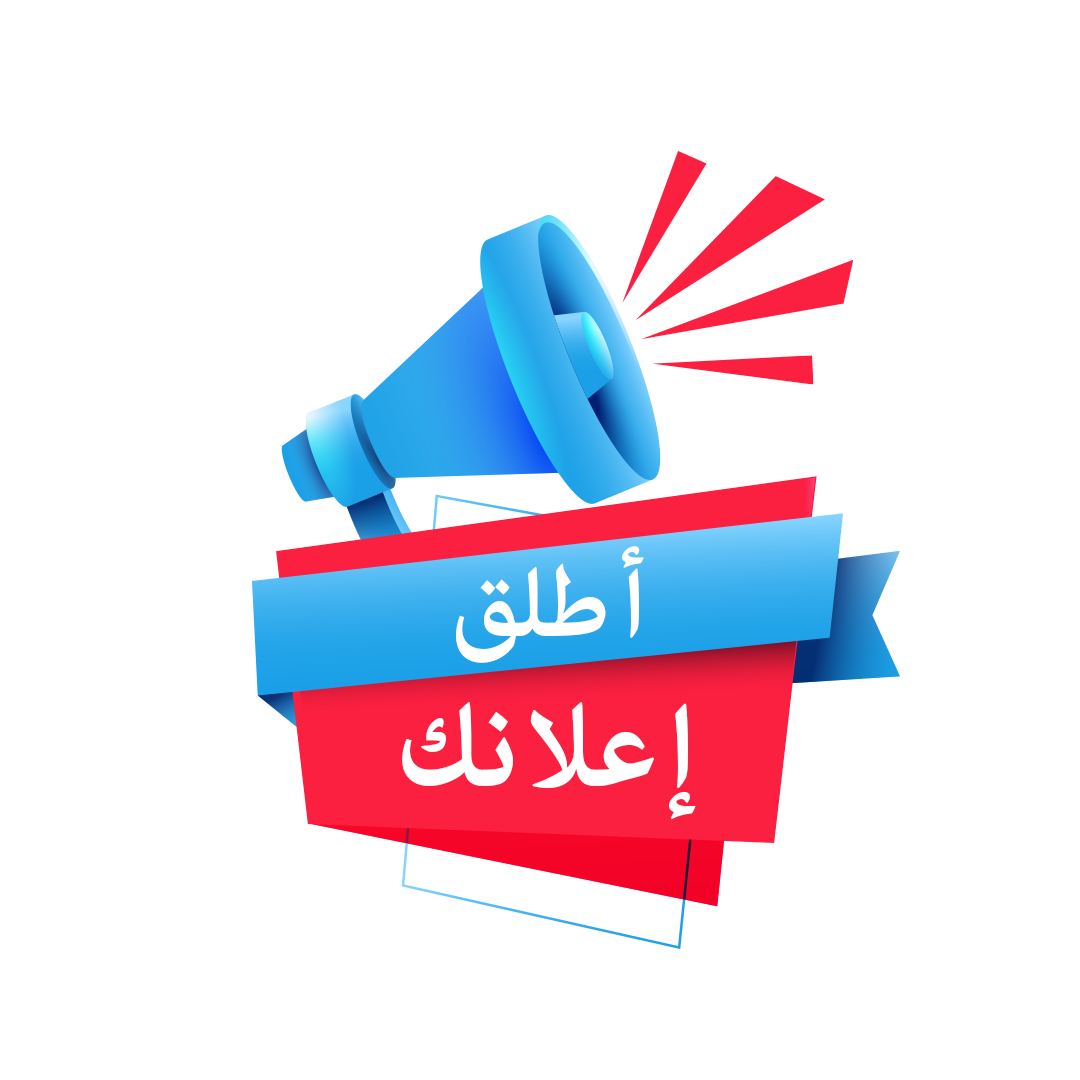
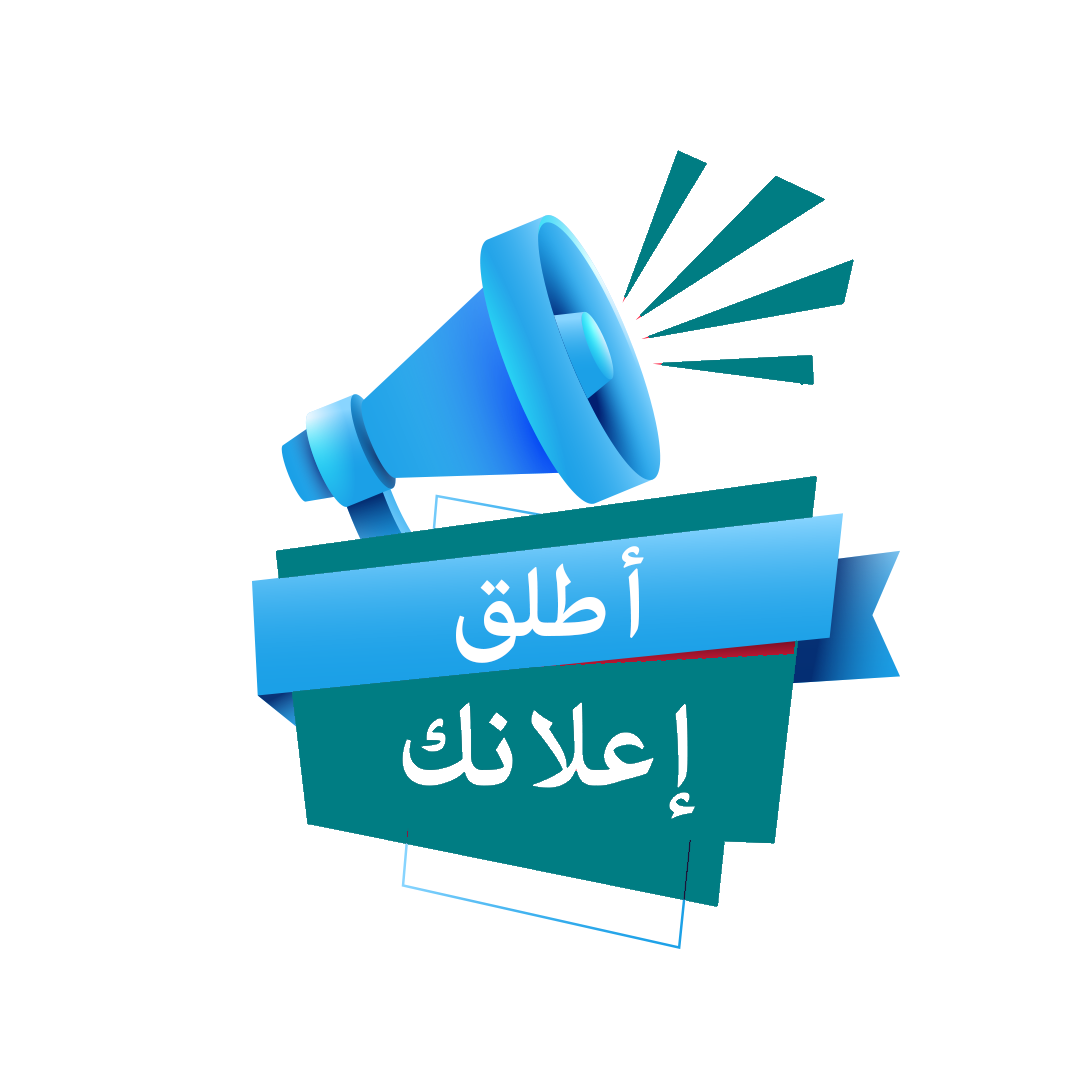
colors

Changed region(s): [[0.275, 0.5806, 0.7333, 0.8556], [0.5806, 0.1222, 0.7944, 0.3667], [0.2444, 0.4278, 0.7639, 0.55]]

diff --git a/css/home.css b/css/home.css
@@ -1,6 +1,11 @@
 .tow {
     height: 100vh;
 }
+:root {
+    --primary: #007D83;
+    --primary-light: #489BA3;
+    --secondary: #D9D9D9;
+}
 section {
     overflow: hidden;
 }
@@ -47,7 +52,7 @@ a {
 
 
 h2 {
-    background: #E9D2FD;
+    color: var(--primary);
     width: fit-content;
     text-align: center;
     margin: auto;
@@ -67,7 +72,7 @@ h2::after {
     left: 0;
     width: 100%;
     height: 2px;
-    background: red;
+    background: var(--primary);
 }
 /* Start Component  */
 .cta {
@@ -75,11 +80,11 @@ h2::after {
     margin: auto;
     padding: 10px 40px;
     border-radius: 25px;
-    background: red;
-    color: white;
-    border: 1.5px solid black;
     display: block;
     text-align: center;
+    background: #F4F4F4;
+    color: black;
+    border: 2px solid var(--primary);
 }
 .cta .cta_icon {
     width: 15px;
@@ -137,6 +142,9 @@ h2::after {
         grid-template-columns: repeat(2, 1fr);
     }
 }
+.section-home h1 {
+    color: var(--primary);
+}
 .section-home__snapchat-icon {
     color: #9b9b75;
     position: absolute;
@@ -175,6 +183,11 @@ h2::after {
 }
 .section-home .cta {
     margin-top: 50px;
+    background: var(--primary);
+    color: white;
+}
+.section-home .cta svg {
+    fill: white;
 }
 /* 
 =========================================================
@@ -229,11 +242,11 @@ h2::after {
     font-size: 18px;
 }
 .benefit-section .text-contianer i {
-    color: rgb(0, 88, 255);
+    color:  var(--primary);
 }
-.benefit-section .text-contianer p {
+.benefit-section .text-contianer .text p {
     line-height: 1.6;
-    
+    color: var(--primary-light);
 }
 /* 
 =========================================================
@@ -244,15 +257,15 @@ h2::after {
 =========================================================
 */
 .client-sections {
-    background: #4a3636;
-    color: white;
+    background: var(--primary);
+    color: var(--secondary);
+    
 }
 .client-sections h2 {
-    background: white;
-    color: black;
+    color: var(--secondary);
 }
 .client-sections p {
-    color: #3bff00;
+    color: var(--secondary);
 }
 .client-sections ul li  {
     line-height: 2;
@@ -396,13 +409,10 @@ h2::after {
 =========================================================
 */
 footer {
-    background: #0f0c29;  /* fallback for old browsers */
-    background: -webkit-linear-gradient(to right, #24243e, #302b63, #0f0c29);  /* Chrome 10-25, Safari 5.1-6 */
-    background: linear-gradient(to right, #24243e, #302b63, #0f0c29); /* W3C, IE 10+/ Edge, Firefox 16+, Chrome 26+, Opera 12+, Safari 7+ */
+    background: #F4F4F4;
     position: relative;
     text-align: center;
     padding: 40px 0px;
-    color: white;
     border-top: 2px solid white;
 }
 
